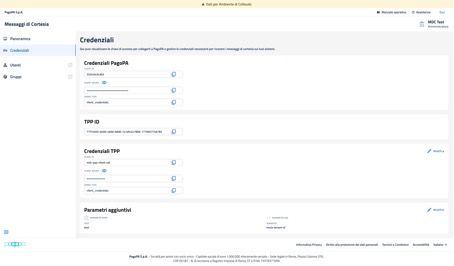
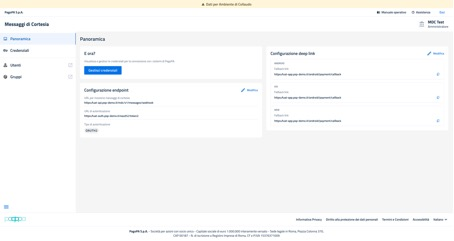
GITBOOK-25: No subject

diff --git a/docs/mdc/manuale-bo-mdc/v1.0/come-configurare-e-gestire-il-servizio/navigazione-del-servizio-su-prod-e-collaudo.md b/docs/mdc/manuale-bo-mdc/v1.0/come-configurare-e-gestire-il-servizio/navigazione-del-servizio-su-prod-e-collaudo.md
@@ -37,45 +37,32 @@ La maschera di modifica espone i valori già configurati e consente all'utente d
 
 <figure><img src="../.gitbook/assets/UAT_modifica_endpoint-deep.png" alt=""><figcaption></figcaption></figure>
 
-<p align="center"><em>Figura - Maschera Modifica endpoint e deep link</em></p>
+<p align="center"><em>Figura - Maschera Visualizzazione e Modifica endpoint e deeplink</em></p>
+
+
 
 In caso di aggiornamento, dopo avere modificato i campi, per confermare le modifiche è necessario cliccare sul pulsante "**Salva**". Il pulsante Annulla consente invece di uscire dalla maschera senza registrare le variazioni inserite.
 
 Durante il salvataggio il sistema effettua i controlli formali sui dati compilati. In presenza di campi obbligatori non valorizzati, formati non ammessi o informazioni non coerenti, il sistema impedisce il salvataggio e richiede la correzione dei dati.
 
+#### Visualizzazione e Modifica e Credenziali
+
+La gestione delle credenziali è disponibile dal menu laterale selezionando la voce Credenziali oppure dal pulsante Gestisci credenziali presente nella pagina Panoramica. La sezione consente di visualizzare le chiavi di accesso e le credenziali necessarie per collegarsi ai sistemi pagoPA e per ricevere i messaggi di cortesia sui sistemi del PSP.
+
+La pagina Credenziali presenta le informazioni organizzate in blocchi funzionali:
+
+* **Credenziali PagoPA**
+* **TPP ID**
+* **Credenziali TPP**
+* **Parametri aggiuntivi.**&#x20;
+
+I campi esposti possono prevedere funzioni di copia, visualizzazione del valore nascosto e accesso alla modifica, in base alla tipologia di informazione.
 
 
-<mark style="color:red;">**\*\*\*\*\*\*\*\*\*\*\*\*\*\*\*\*\***</mark>
 
-#### Visualizzazione e Modifica sezione "Credenziali"
+<figure><img src="../.gitbook/assets/UAT_modifca_credenziali.png" alt=""><figcaption></figcaption></figure>
 
-La gestione delle credenziali e disponibile dal menu laterale selezionando la voce Credenziali oppure dal pulsante Gestisci credenziali presente nella pagina Panoramica. La sezione consente di visualizzare le chiavi di accesso e le credenziali necessarie per collegarsi ai sistemi pagoPA e per ricevere i messaggi di cortesia sui sistemi del PSP.
-
-La pagina Credenziali presenta le informazioni organizzate in blocchi funzionali: Credenziali PagoPA, TPP ID, Credenziali TPP e Parametri aggiuntivi. I campi esposti possono prevedere funzioni di copia, visualizzazione del valore nascosto e accesso alla modifica, in base alla tipologia di informazione.
-
-<p align="center"><em>Figura - Sezione Credenziali con funzioni di visualizzazione e modifica</em></p>
-
-#### Modifica delle credenziali TPP
-
-Per aggiornare le credenziali tecniche del PSP, l'utente seleziona l'azione Modifica presente nel riquadro Credenziali TPP. Il sistema apre la maschera Modifica credenziali, nella quale sono riportati i dati gia configurati.
-
-La sezione Credenziali di accesso consente di aggiornare i seguenti campi:
-
-Client ID, identificativo client utilizzato dal PSP per la comunicazione tecnica;
-
-Client Secret, valore riservato necessario per l'autenticazione;
-
-Grant type, modalita di grant configurata per il rilascio del token.
-
-La maschera consente inoltre di gestire i parametri aggiuntivi da inviare in fase di autenticazione. I parametri possono essere distinti in Parametri aggiuntivi Body e Parametri aggiuntivi URL. Per ciascun parametro devono essere valorizzati nome e valore.
-
-<p align="center"><em>Figura - Maschera Modifica credenziali</em></p>
-
-**Gestione dei parametri aggiuntivi**
-
-I parametri aggiuntivi devono essere compilati solo se richiesti dalla configurazione tecnica del PSP. Il comando Aggiungi parametro body consente di inserire nuovi parametri da trasmettere nel corpo della richiesta; il comando Aggiungi parametro URL consente di inserire parametri da accodare all'indirizzo web di autenticazione.
-
-Per eliminare un parametro gia presente, l'utente puo utilizzare l'icona di eliminazione disponibile sulla riga corrispondente. Prima di procedere al salvataggio e necessario verificare che i valori residui siano corretti e coerenti con la configurazione tecnica dell'ambiente selezionato.
+<p align="center"><em>Figura - Maschera Visualizzazione e Modifica credenziali</em></p>
 
 #### Conferma o annullamento della modifica
 